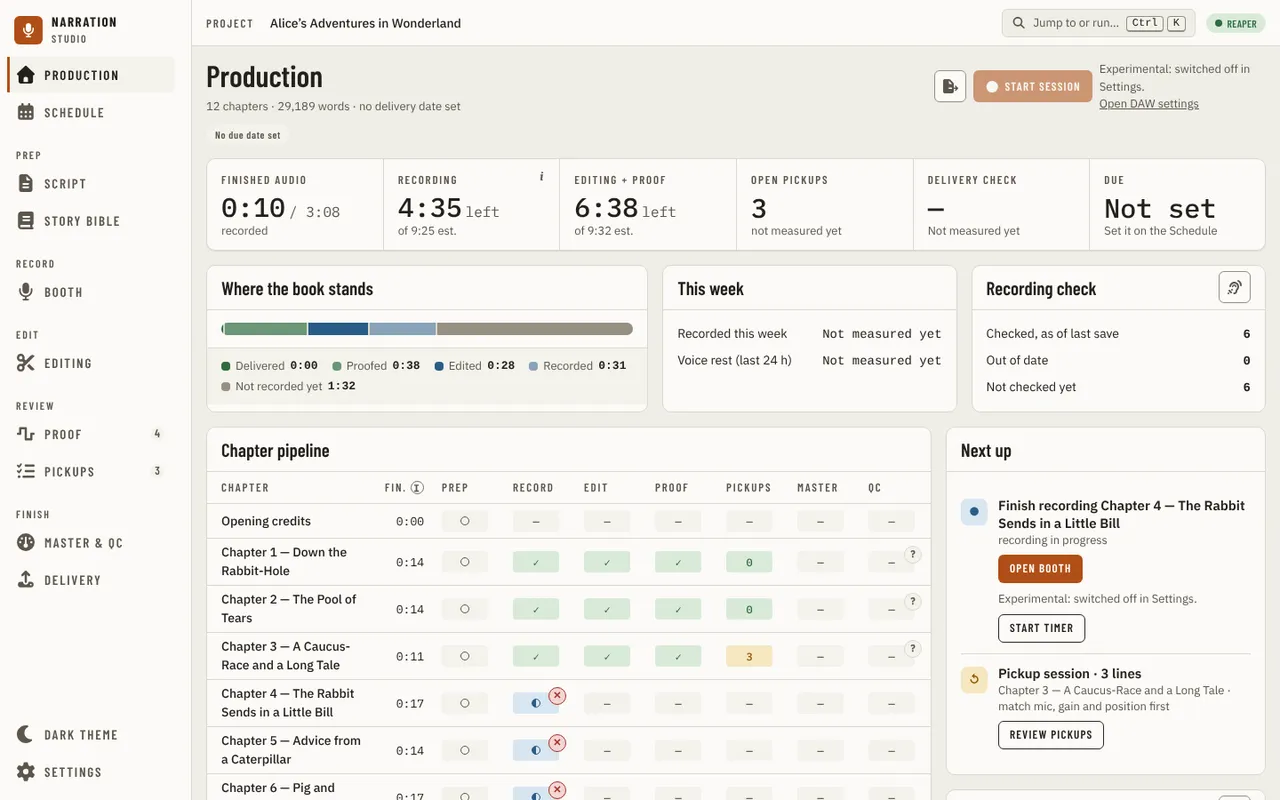
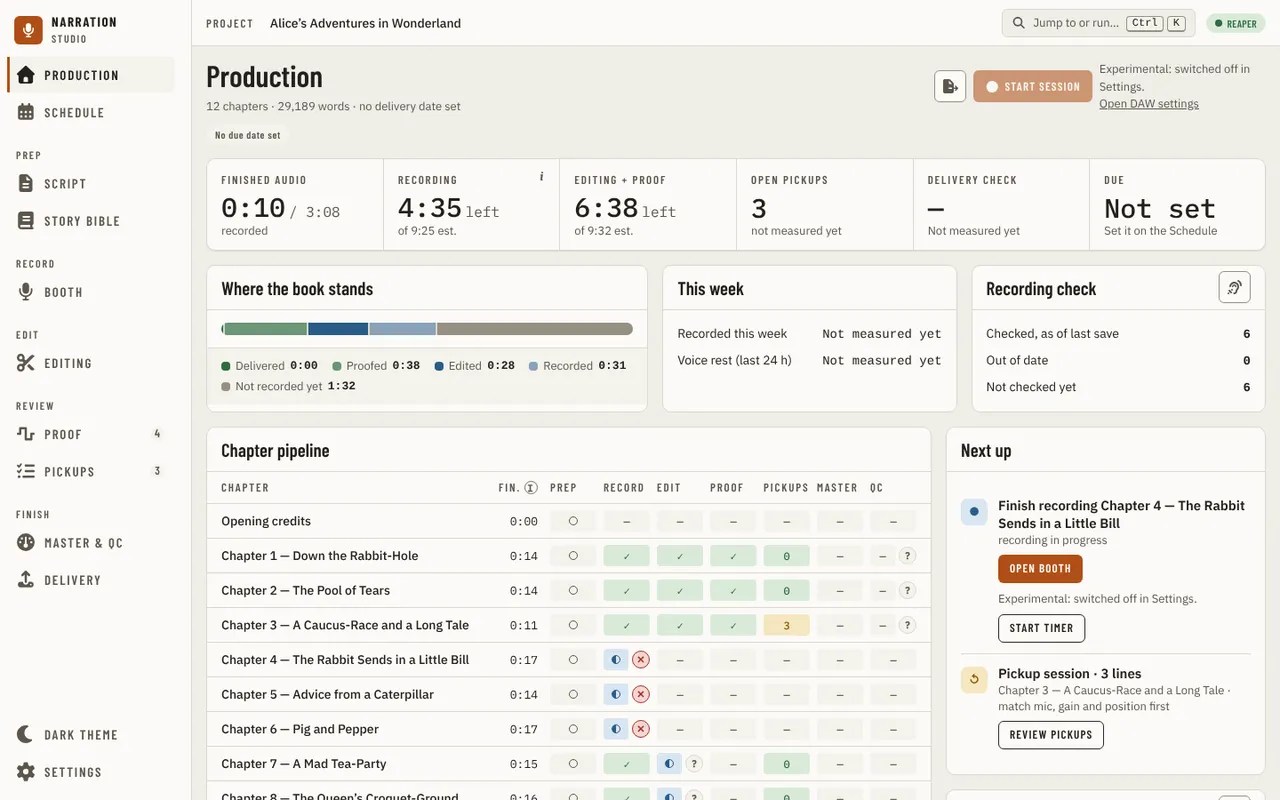
fix(production): the pipeline's names keep a column and its chips stay in their cells (#2420)

diff --git a/src/studio/ui/src/components/production/pipeline/PipelineTable.tsx b/src/studio/ui/src/components/production/pipeline/PipelineTable.tsx
@@ -25,10 +25,19 @@ const cellStatus = (cell: PipelineCell): StatusId => {
   const byKind: Record<Exclude<CellKind, 'open'>, StatusId> = { done: 'done', progress: 'in_progress', none: 'not_started' };
   return cell.kind === 'open' ? (cell.column === 'pickups' ? 'open_pickup' : 'fail') : byKind[cell.kind];
 };
-/** Every stage column is the same width; Fin. is narrower (the mock: 80 px and 64 px). */
-const STAGE_WIDTH = '5rem';
-const FIN_WIDTH = '4rem';
+/**
+ * The columns (Table `columns`): every stage column holds a 52 px cell and 4 px either side, the last also the card's 16 px edge, and Fin.
+ * holds "0:14" and its info mark on one line (the mock's 80 px stage columns left 28 px of air around each cell and squeezed the chapter
+ * names to two to five lines, alignment audit XPR2-10). Chapter takes the rest, and the table never goes below a 10 rem name column: under that it scrolls inside its card with the
+ * names pinned at the left (R4TA-1).
+ */
+const STAGE_WIDTH = '3.75rem';
+const COLUMNS = ['auto', '4rem', ...Array<string>(6).fill(STAGE_WIDTH), '4.5rem'];
 const STAGE_COLUMNS: readonly PipelineColumn[] = ['prep', 'record', 'edit', 'proof', 'pickups', 'master', 'qc'];
+// Important: the cell's own 10 px padding is the same specificity and comes later in the stylesheet. The last column keeps its 16 px card edge.
+const STAGE_CELL = 'px-1! last:pr-4!';
+/** The names stay in view while the stages scroll under them, on the card's own colour. */
+const STICKY_NAME = 'sticky left-0 z-[1] bg-[var(--surface)]';
 
 /** A disc half filled, drawn with CSS so it reads the same in every font. */
 const underWayMark = (
@@ -42,15 +51,26 @@ const underWayMark = (
 const notStartedMark = <span data-not-started="" aria-hidden="true" className="inline-block size-2.5 rounded-full border border-current" />;
 const textOf = (cell: PipelineCell) => (cell.text === UNDER_WAY ? underWayMark : cell.text === NOT_STARTED_PREP ? notStartedMark : cell.text);
 
-function StageCell({ row, cell, onGo }: { row: PipelineRow; cell: PipelineCell; onGo: (target: GoTarget, chapterId: string) => void }) {
+function StageCell({
+  row,
+  cell,
+  onGo,
+  beside = false,
+}: {
+  row: PipelineRow;
+  cell: PipelineCell;
+  onGo: (target: GoTarget, chapterId: string) => void;
+  /** The readiness chip shares the cell: the stage cell gives up its 52 px minimum and takes what the chip leaves. */
+  beside?: boolean;
+}) {
   const colors = toneColors(statusTone(cellStatus(cell)));
   // The mock fills an empty cell (`.cell`, --raised) rather than outlining it.
   const look = 'soft';
   // The mock's `.cell` is `width: 100%` of its column; the shape itself is only a minimum.
-  const classes = `${badgeClass('cell')} w-full`;
+  const classes = `${badgeClass('cell')} w-full ${beside ? 'min-w-0! px-0!' : ''}`;
   if (!cell.go) {
     return (
-      <TooltipTarget text={cell.tip}>
+      <TooltipTarget text={cell.tip} className={beside ? 'min-w-0' : 'w-full'}>
         <span className={classes} style={badgeStyle(colors, look)} aria-label={cellName(row.name, cell)} role="img">
           {textOf(cell)}
         </span>
@@ -58,7 +78,7 @@ function StageCell({ row, cell, onGo }: { row: PipelineRow; cell: PipelineCell; 
     );
   }
   return (
-    <TooltipTarget text={cell.tip}>
+    <TooltipTarget text={cell.tip} className={beside ? 'min-w-0' : 'w-full'}>
       {/* native-control-ok: a flat cell-shaped badge that is a button; Button's padded uppercase chrome and IconButton's square do not draw the mock's cell. */}
       <button
         type="button"
@@ -91,22 +111,20 @@ type TableProps = {
 /** Every chapter and where it stands in each stage (the mock's PipelineTable). One format for every stage: a tick when done, the percent when under way, a dash when not started. */
 export function PipelineTable({ rows, recommendations, onGo, notify, onStatus, justChanged = null }: TableProps) {
   return (
-    // The table scrolls inside its panel at a narrow width, never the page; the region is a tab stop so the keyboard can scroll it.
-    <div className="overflow-x-auto" tabIndex={0} role="group" aria-label="Chapter pipeline scroll area">
-      <Table label="Chapter pipeline" className="min-w-[44rem] table-fixed">
-        <colgroup>
-          <col />
-          <col style={{ width: FIN_WIDTH }} />
-          {STAGE_COLUMNS.map((column) => (
-            <col key={column} style={{ width: STAGE_WIDTH }} />
-          ))}
-        </colgroup>
+    // The table scrolls inside its panel at a narrow width, never the page, with a shadow on the side that has more (`scroll-x-edges`);
+    // the region is a tab stop so the keyboard can scroll it.
+    <div className="scroll-x-edges overflow-x-auto" tabIndex={0} role="group" aria-label="Chapter pipeline scroll area">
+      <Table label="Chapter pipeline" columns={COLUMNS} className="min-w-[41rem]">
         <TableHead>
           <TableRow>
-            <TableHeader>Chapter</TableHeader>
-            <TableHeader info="Estimated finished length at the planning rate. The measured length is in the Record cell's tip.">Fin.</TableHeader>
+            <TableHeader className={STICKY_NAME}>Chapter</TableHeader>
+            <TableHeader align="right" info="Estimated finished length at the planning rate. The measured length is in the Record cell's tip.">
+              Fin.
+            </TableHeader>
             {STAGE_COLUMNS.map((column) => (
-              <TableHeader key={column}>{COLUMN_LABEL[column]}</TableHeader>
+              <TableHeader key={column} className={STAGE_CELL}>
+                {COLUMN_LABEL[column]}
+              </TableHeader>
             ))}
           </TableRow>
         </TableHead>
@@ -119,22 +137,22 @@ export function PipelineTable({ rows, recommendations, onGo, notify, onStatus, j
                 data={row.id === justChanged ? { 'data-just-changed': '' } : undefined}
                 className={row.id === justChanged ? CHANGE_HIGHLIGHT_CLASSES : ''}
               >
-                <TableCell className="font-medium [overflow-wrap:anywhere]">{row.name}</TableCell>
+                {/* Broken between words, never inside one ("Caterpill / ar", R4SM-3). */}
+                <TableCell className={`font-medium [overflow-wrap:break-word] ${STICKY_NAME}`}>{row.name}</TableCell>
                 <TableCell numeric>{row.finished}</TableCell>
                 {STAGE_COLUMNS.map((column) => {
-                  const stage = <StageCell row={row} cell={row.cells[column]} onGo={onGo} />;
+                  const chip = recommendation && row.current === column;
                   return (
-                    <TableCell key={column}>
-                      {recommendation && row.current === column ? (
-                        // The verdict chip sits on the corner of the cell for the stage the chapter is in.
-                        <span className="relative inline-flex">
-                          {stage}
-                          <span className="absolute -top-2 -right-2">
-                            <ReadinessChip recommendation={recommendation} onOpen={() => openReadiness({ chapterId: row.id, notify, onStatus })} />
-                          </span>
+                    <TableCell key={column} className={STAGE_CELL}>
+                      {chip ? (
+                        // The verdict chip sits inside the cell for the stage the chapter is in, at its right end, so it never covers a row
+                        // rule or the next column (XPR2-12, XPR1-34).
+                        <span className="grid grid-cols-[minmax(0,1fr)_auto] items-center gap-1">
+                          <StageCell row={row} cell={row.cells[column]} onGo={onGo} beside />
+                          <ReadinessChip recommendation={recommendation} onOpen={() => openReadiness({ chapterId: row.id, notify, onStatus })} />
                         </span>
                       ) : (
-                        stage
+                        <StageCell row={row} cell={row.cells[column]} onGo={onGo} />
                       )}
                     </TableCell>
                   );

diff --git a/src/studio/ui/tests/visual/production-pipeline.spec.ts b/src/studio/ui/tests/visual/production-pipeline.spec.ts
@@ -1,0 +1,53 @@
+import { expect, test } from '@playwright/test';
+import { settlePage } from './helpers/settle';
+import { productionDrivers } from './drivers/production';
+
+// The chapter pipeline's layout, checked from the DOM at the widths the alignment audit found it broken at
+// (docs/research/alignment-audit/findings/production.md): the readiness chips stay inside their own cell, the chapter names keep a
+// column that holds them, and a narrow card scrolls the stages under pinned names.
+for (const size of [
+  { name: 'wide', width: 1920, height: 1080 },
+  { name: 'desktop', width: 1440, height: 900 },
+  { name: 'small-desktop', width: 1024, height: 768 },
+  { name: 'tablet', width: 768, height: 1024 },
+  { name: 'reflow', width: 390, height: 844 },
+]) {
+  test(`Production / the pipeline's chips stay in their cells and the names keep their column / ${size.name} ${size.width}x${size.height}`, async ({
+    page,
+  }) => {
+    await page.setViewportSize({ width: size.width, height: size.height });
+    await page.goto('/');
+    await settlePage(page);
+    await productionDrivers['on-pace'](page);
+    const table = page.getByRole('table', { name: 'Chapter pipeline' });
+    // XPR2-12, XPR1-34: a chip 8 px above and right of its cell sat on the row rule and over the next column.
+    const chips = await table.locator('[data-rchip]').evaluateAll((nodes) =>
+      nodes.map((chip) => {
+        const own = chip.getBoundingClientRect();
+        const cell = chip.closest('td')!.getBoundingClientRect();
+        return { top: own.top - cell.top, bottom: cell.bottom - own.bottom, left: own.left - cell.left, right: cell.right - own.right };
+      }),
+    );
+    expect(chips.length).toBeGreaterThan(0);
+    for (const chip of chips) for (const [side, gap] of Object.entries(chip)) expect(gap, `the chip is inside its cell (${side})`).toBeGreaterThanOrEqual(0);
+    // XPR1-5, R4SM-3: the name column was 65 to 130 px, so names broke one word, or half a word, a line.
+    const name = (await table.getByRole('columnheader', { name: 'Chapter' }).boundingBox())!;
+    expect(name.width, 'the Chapter column holds a name').toBeGreaterThanOrEqual(158);
+    // The Fin. header and its info mark stay on one line.
+    const fin = (await table.getByRole('columnheader', { name: /Fin\./ }).boundingBox())!;
+    expect(fin.height).toBeLessThan(40);
+    if (size.width >= 1440) expect(name.width, 'the names are not squeezed beside eight wide stage columns (XPR2-10)').toBeGreaterThanOrEqual(300);
+  });
+}
+
+test('Production / a stage cell beside its readiness chip still shows its whole label / desktop 1440x900', async ({ page }) => {
+  // The cell gives up its minimum for the chip; what is left must still hold "50%" (it was clipped to "50" in 15 px).
+  await page.setViewportSize({ width: 1440, height: 900 });
+  await page.goto('/');
+  await settlePage(page);
+  await productionDrivers['on-pace'](page);
+  const cell = page.getByRole('button', { name: /^Chapter 4.*: Record 50% recorded$/ });
+  const sizes = await cell.evaluate((node) => ({ scroll: node.scrollWidth, client: node.clientWidth, width: node.getBoundingClientRect().width }));
+  expect(sizes.scroll, 'the label is not clipped').toBeLessThanOrEqual(sizes.client);
+  expect(sizes.width).toBeGreaterThanOrEqual(24);
+});

diff --git a/src/studio/ui/src/components/production/pipeline/pipeline.test.tsx b/src/studio/ui/src/components/production/pipeline/pipeline.test.tsx
@@ -52,7 +52,9 @@ describe('PipelineTable', () => {
     const grid = screen.getByRole('table', { name: 'Chapter pipeline' });
     expect(within(grid).getAllByRole('row')).toHaveLength(MID_BOOK.length + 1);
     const widths = Array.from(grid.querySelectorAll('col')).map((col) => col.style.width);
-    expect(widths.slice(2)).toEqual(Array(7).fill('5rem'));
+    // Every stage column holds its cell and 4 px either side; the last also holds the card's 16 px edge (alignment audit XPR2-10).
+    expect(widths.slice(2, 8)).toEqual(Array(6).fill('3.75rem'));
+    expect(widths[8]).toBe('4.5rem');
     expect(widths[1]).toBe('4rem');
     expect(screen.getAllByRole('columnheader').map((h) => h.textContent)).toEqual(
       expect.arrayContaining(['Chapter', 'Prep', 'Record', 'Edit', 'Proof', 'Pickups', 'Master', 'QC']),
@@ -100,6 +102,18 @@ describe('PipelineTable', () => {
     const region = screen.getByRole('group', { name: 'Chapter pipeline scroll area' });
     expect(region.tabIndex).toBe(0);
     expect(region.className).toContain('overflow-x-auto');
+    // It says it scrolls: a shadow on the side with more (R4TA-1), and the names stay pinned while the stages move.
+    expect(region.className).toContain('scroll-x-edges');
+    expect(screen.getByRole('columnheader', { name: 'Chapter' }).className).toContain('sticky');
+  });
+
+  it('readiness-chip-inside-its-cell: the chip shares the stage cell instead of hanging off its corner, and the cell gives it room', () => {
+    table();
+    const chip = document.querySelector<HTMLElement>('[data-rchip="c4"]')!;
+    const cell = screen.getByRole('button', { name: /^Chapter 4: Record 50% recorded$/ });
+    expect(chip.closest('.absolute')).toBeNull();
+    expect(chip.parentElement!.parentElement).toBe(cell.parentElement!.parentElement);
+    expect(cell.className).toContain('min-w-0!');
   });
 });
 

diff --git a/src/studio/ui/src/components/production/readiness/ReadinessChip.tsx b/src/studio/ui/src/components/production/readiness/ReadinessChip.tsx
@@ -1,3 +1,4 @@
+import { HIT_AREA } from '../../primitives/hitArea';
 import { toneColors } from '../../primitives/StatusBadge';
 import { TooltipTarget } from '../../primitives/Tooltip';
 import type { StageChapterRecommendation } from '../../../types';
@@ -22,8 +23,9 @@ export function ReadinessChip({ recommendation, onOpen }: { recommendation: Stag
         data-verdict={verdict}
         aria-label={`Stage readiness: ${label}, ${stage}`}
         aria-haspopup="dialog"
-        // The mock's round 20 px mark, in the tone's soft fill and text colour (the pairs the palette guard already checks).
-        className="inline-flex size-5 cursor-pointer items-center justify-center rounded-full border border-solid p-0 text-[0.7rem] leading-none font-bold focus-visible:outline-2 focus-visible:outline-offset-2 focus-visible:outline-[var(--accent)]"
+        // The mock's round 20 px mark, in the tone's soft fill and text colour (the pairs the palette guard already checks), pressed in a
+        // 24 px square (R3PR1-17).
+        className={`${HIT_AREA} inline-flex size-5 flex-none cursor-pointer items-center justify-center rounded-full border border-solid p-0 text-[0.7rem] leading-none font-bold focus-visible:outline-2 focus-visible:outline-offset-2 focus-visible:outline-[var(--accent)]`}
         style={{ background: colors.fill, color: colors.text, borderColor: colors.line }}
         onClick={onOpen}
       >

diff --git a/docs/design/design-system.md b/docs/design/design-system.md
@@ -137,6 +137,8 @@ The custom-CSS system (`.btn`, `.panel-head`/`.panel-body`, `.progressbar`, etc.
 
 The document (`html`/`body`) never scrolls; it is locked (`overflow: hidden`, `styles.css`) once nothing needs it to. Every page scrolls inside the shell's own page area (`AppShell.tsx`'s `<main>`, `.scroll-chrome-hidden`), which is the shell's single scroll container and also gives absolutely positioned descendants (an `sr-only` label, a Base UI hidden input) a containing block so they scroll and clip with their row instead of escaping to the window. Before a project is attached, `StartupScreen` and `ProjectPicker` scroll in the same way inside their own `flex-1 overflow-y-auto` container, with the extension banner (`ExtensionBanner`, `appExtension.tsx`; the demo banner of `src/web`, nothing in the app) above it in a `flex h-full flex-col` so the banner's own height never pushes the document past the viewport. The shell is sized off a `height: 100%` chain from `html`/`body`/`#root` (`h-full`), not `100vh`/`100dvh`, because only the `%` chain stays exact under both WebView2's zoom and a CSS `zoom` on `<html>`.
 
+The Production chapter pipeline is the board's wide table: its stage columns are 3.75 rem (a 52 px cell and 4 px either side; the mock's 80 px left 28 px of air per column and squeezed the names to two to five lines), the Chapter column takes the rest with a 10 rem floor, and below that the table scrolls with the names pinned (`sticky`) and `scroll-x-edges`. A chapter's readiness chip sits inside the cell of its current stage, which gives up its 52 px minimum for it, not on the cell's corner where the mock draws it: there it sat on the row rule and over the next column (alignment audit XPR2-12, XPR1-34).
+
 A table that scrolls sideways inside its panel says so: give its scroll box `scroll-x-edges` (`styles.css`), a soft shadow on each edge that has more beyond it, hidden at the end of the scroll. The box stays focusable and labelled so the keyboard can scroll it. Pickups' table uses it; keep the table's minimum width no wider than the box at the tablet width (768 px), so a row's actions are not cut off there.
 
 ## Layout rules

diff --git a/docs/guides/using-the-app/production.md b/docs/guides/using-the-app/production.md
@@ -87,7 +87,7 @@ measured file fails the delivery check, with each failed check, its value and it
 
 ## Chapter pipeline
 
-The pipeline has one row per narration chapter. **Fin.** is the chapter's estimated finished
+The pipeline has one row per narration chapter. In a narrow window the stages scroll sideways under the chapter names, which stay in view, with a shadow on the side that has more. **Fin.** is the chapter's estimated finished
 length; its Record cell's tip has the measured one. **Record**, **Edit** and **Proof** show a check
 mark (✓) for a stage done, a half circle for the stage under way and a dash for one not started.
 **Prep** is the chapter's prep state from [Script](script.md): a check mark when prepped, a half
@@ -98,7 +98,7 @@ read says "Not measured yet". A cell's colour is the colour of its status everyw
 amber for open pickups, red for a failed check, grey for not started. A cell opens its stage for the chapter: Script, the Booth, the editing
 check, Proof, Pickups or Master & QC. The table scrolls sideways in a narrow window.
 
-The chip on the chapter's current-stage cell is its [readiness](#stage-readiness).
+The round chip inside the chapter's current-stage cell, beside the stage, is its [readiness](#stage-readiness).
 
 Right-click a row (or press the Menu key or Shift+F10 on one of its cells) for the chapter's menu:
 **Open prep in Script**, **Open in Booth**, **Open Proof**, **Open Master & QC**, **Go to this
